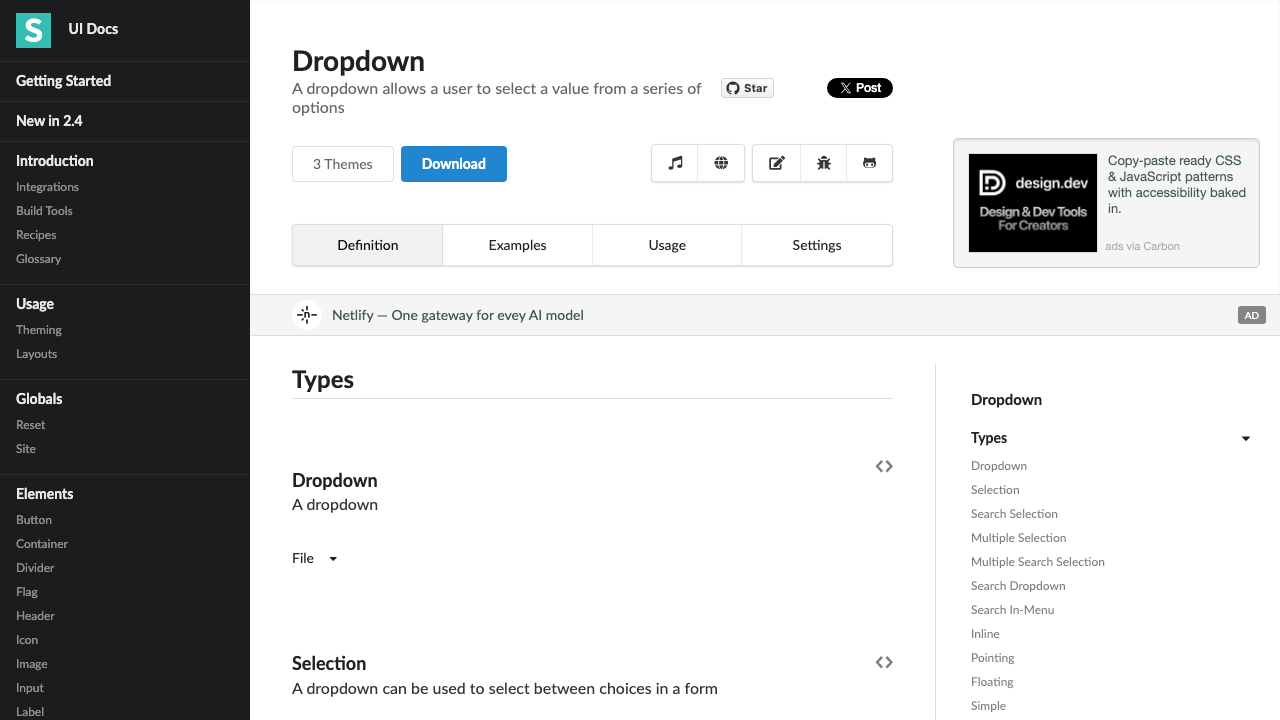
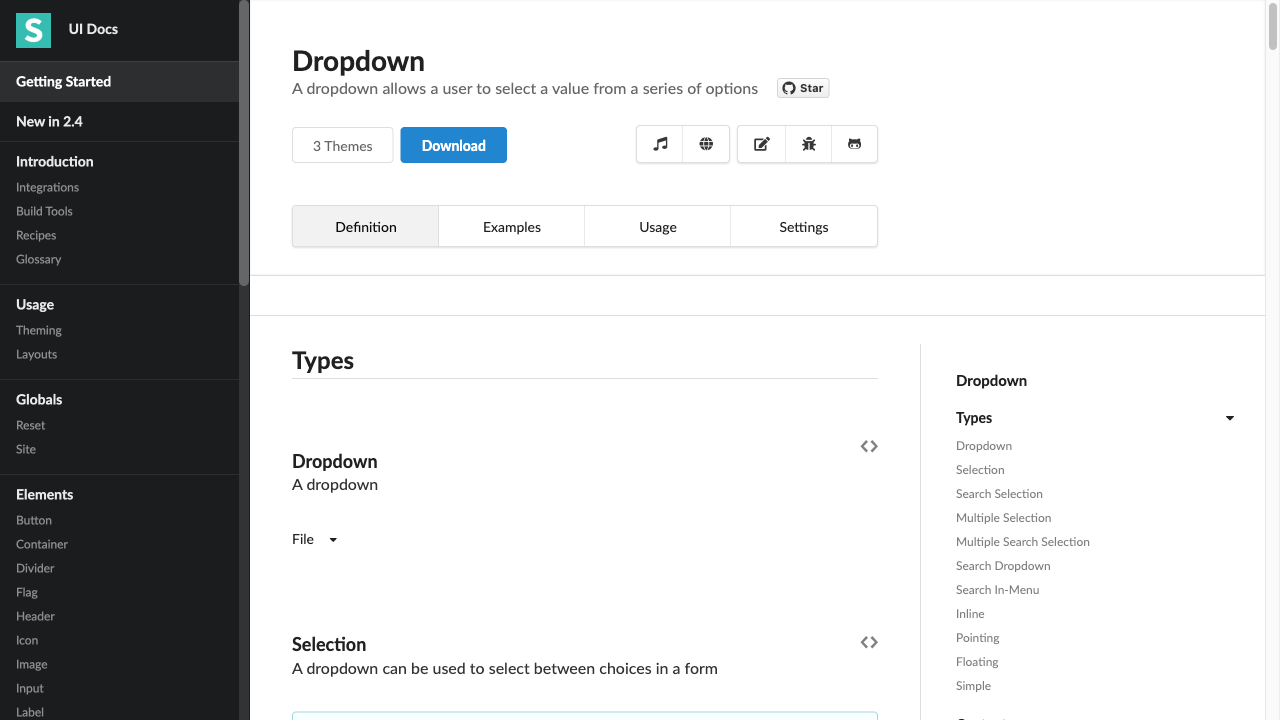
Added a custom fixture along with other minor changes

diff --git a/tests/fixtureExample.spec.ts b/tests/fixtureExample.spec.ts
@@ -1,0 +1,34 @@
+import {test} from '../fixture/loginFixture';
+import {expect} from '@playwright/test';
+import credentials from '../testdata/credentials.json'
+import { AddItemsPage } from '../pages/AddItemsPage';
+import { EditItemsInAddToCart } from '../pages/EditItemsInAddToCart';
+import { CheckoutPage } from '../pages/CheckoutPage';
+import items from '../testdata/items.json';
+
+for (const item of items) {
+test(`Adding ${item.itemName} to the cart`, async({loginPageCF, page})=> {
+    const addItemsPage = new AddItemsPage(page);
+    const edititemsInAddToCart = new EditItemsInAddToCart(page);
+    const checkoutPage = new CheckoutPage(page);
+
+    await loginPageCF.login(credentials.userName, credentials.password);
+    await expect(page).toHaveURL("https://practice.qabrains.com/ecommerce",);
+    await expect(page.getByText("Products")).toBeVisible();
+
+    //Click on item
+    await addItemsPage.clickItem(item.itemName);
+    //Click on add to cart btn
+    await addItemsPage.clickAddToCard();
+
+    //Check items in the cart
+    await edititemsInAddToCart.checkAddedCartItems(item.itemName);
+    //Update Item Count
+    await edititemsInAddToCart.increaseTheItemCount(item.itemName);
+
+    //Proceed with checkout
+    await checkoutPage.clickCheckout();
+    await checkoutPage.verifyEmailInCheckout(credentials.userName);
+    await checkoutPage.clickContinueBtn();
+    });
+}

diff --git a/playwright.config.ts b/playwright.config.ts
@@ -16,7 +16,7 @@ dotenv.config({
  */
 export default defineConfig({
   testDir: "./tests",
-  //retries:2,
+  //retries: 2,  // This will only work when you run via terminal
   /* Run tests in files in parallel */
   fullyParallel: false,
   //workers:4,
@@ -36,12 +36,13 @@ export default defineConfig({
   use: {
     /* Base URL to use in actions like `await page.goto('')`. */
     // baseURL: 'https://practice.qabrains.com',
-    baseURL: 'https://practice.expandtesting.com/',
-    headless: true,
+    //baseURL: 'https://practice.expandtesting.com/',
+    baseURL: process.env.BASE_URL,
+    headless: false,
     /* Collect trace when retrying the failed test. See https://playwright.dev/docs/trace-viewer */
    // trace: "on-first-retry",
     //  screenshot: "only-on-failure",
-    //  video:'retain-on-failure',
+     video:'retain-on-failure',
      trace: "retain-on-failure",
   },
 

diff --git a/tests/testEnv.spec.ts b/tests/testEnv.spec.ts
@@ -1,12 +1,14 @@
 import {test, expect} from '@playwright/test'
 
 test('Running tests using env files', async ({ page }) => {
-  await page.goto('https://practice.qabrains.com/ecommerce/login');
+ // await page.goto('https://practice.qabrains.com/ecommerce/login');
+  await page.goto('/ecommerce/login');
+  console.log('BASE_URL:', process.env.BASE_URL);
 
   //"!"" means --> I know this environment variable exists, so treat it as a string rather than possibly undefined.
   await page.locator('#email').fill(process.env.USERNAME!);
   await page.locator('#password').fill(process.env.PASSWORD!);
-  await page.getByRole('button', { name: 'Loginb' }).click();
+  await page.getByRole('button', { name: 'Login' }).click();
 
   await page.waitForURL('**/ecommerce');
  await expect(page.getByText('practice@qabrains.com')).toBeVisible();

diff --git a/tests/orderItems.spec.ts b/tests/orderItems.spec.ts
@@ -1,12 +1,12 @@
 import{test} from '@playwright/test';
 import { AddToCartHelper } from '../helpers/addToCartHelper';
 import credentials from '../testdata/credentials.json'
-import { LoginPage } from '../pages/loginPage';
+import { LoginPage } from '../pages/LoginPage';
 import { AddItemsPage } from '../pages/AddItemsPage';
 import { EditItemsInAddToCart } from '../pages/EditItemsInAddToCart';
 import { CheckoutPage } from '../pages/CheckoutPage';
 
-test('Order items', async({page})=>{
+test('Order items - Using POM along with a helper class', async({page})=>{
     const loginPage = new LoginPage(page);
     const addItemsPage = new AddItemsPage(page);
     const edititemsInAddToCart = new EditItemsInAddToCart(page)

diff --git a/fixture/loginFixture.ts b/fixture/loginFixture.ts
@@ -1,0 +1,14 @@
+import {test as base} from "@playwright/test";
+import { LoginPage } from "../pages/LoginPage";
+
+type CustomLoginFixture = {
+    loginPageCF: LoginPage;
+};
+
+export const test = base.extend<CustomLoginFixture>({
+    loginPageCF: async ({page}, use) =>{
+        const loginPage1 = new LoginPage(page);
+        await loginPage1.navigateToLoginPage();
+        await use(loginPage1);
+    },
+});

diff --git a/tests/apiTests/schemavalidations.spec.ts b/tests/apiTests/schemavalidations.spec.ts
@@ -16,7 +16,7 @@ function readJson(filePath:string){
 test('Schecma validation', async({request})=>{
 //Website: https://restful-booker.herokuapp.com/apidoc/index.html
 
-const response = await request.get('https:mocktarget.apigee.net/json');
+const response = await request.get('https://mocktarget.apigee.net/json');
 const responseBody = await response.json();
 console.log(responseBody);
 

diff --git a/tests/oop.spec.ts b/tests/oop.spec.ts
@@ -3,6 +3,7 @@ import { studentUserPage } from '../pages/OOP/studentUserPage'
 import { practiceUserPaqge } from '../pages/OOP/practiceUserPage';
 
 test.describe('Example for OOP Concepts', async()=>{
+  //  test.describe.configure({retries:2})
 test('Login As Student User', async({page})=>{
     const student = new studentUserPage(page);
 

diff --git a/helpers/AddToCartHelper.ts b/helpers/AddToCartHelper.ts
@@ -1,5 +1,5 @@
 import { Page, expect } from "@playwright/test";
-import { LoginPage } from "../pages/loginPage";
+import { LoginPage } from "../pages/LoginPage";
 import { AddItemsPage } from "../pages/AddItemsPage";
 import { EditItemsInAddToCart } from "../pages/EditItemsInAddToCart";
 

diff --git a/tests/e2e/practiceTests/dataDrivenTest.spec.ts b/tests/e2e/practiceTests/dataDrivenTest.spec.ts
@@ -1,5 +1,5 @@
 import {test, expect} from '@playwright/test';
-import dataDriven from '../../testdata/dataDriven.json';
+import dataDriven from '../../../testdata/dataDriven.json';
 
 const testData = [
   { userName: "test@qabrains.com", password: "Password123" },
